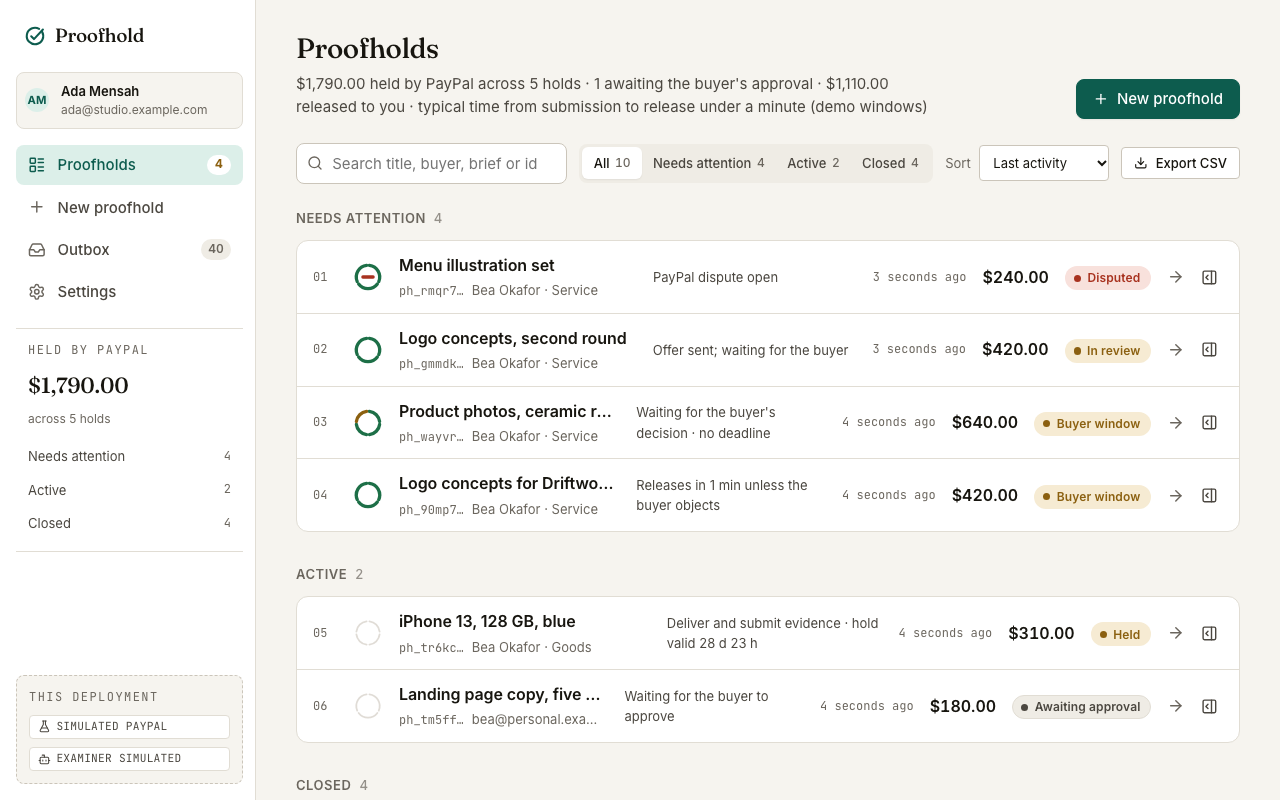
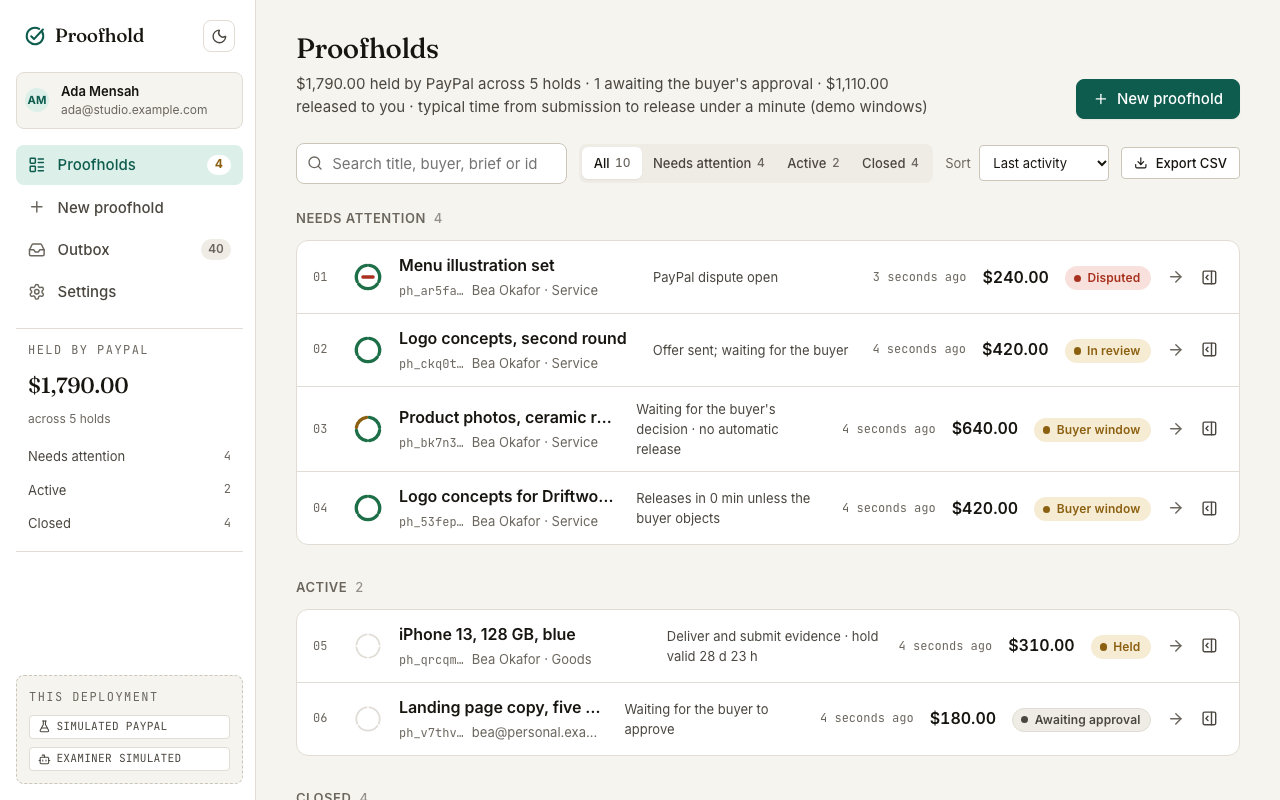
docs: the third design iteration, the fourth review pass, and a fresh gallery
The motion table gains the hero entrance, the story and the theme crossfade;
the brand doc explains the theme choice and the per-scheme brand-surface
tokens; the acceptance matrix lists what the outside review and the owner
raised, what was done, and what was left with the reason. Gallery
regenerated from a seeded workspace.

diff --git a/docs/acceptance-matrix.md b/docs/acceptance-matrix.md
@@ -156,6 +156,28 @@ An independent reviewer read the iteration-2 source and drove the served build a
 
 Also from the pass: the empty first header cell of the compare table has a visually hidden "Question". Verified as fine without change: every sampled colour pair, hit targets, reduced motion, dark mode, no horizontal overflow at any width.
 
+## Fourth pass (2026-11-12, an outside flow review and the owner's notes)
+
+An outside reviewer read the repository and the documented flow (not the running app) and the owner tried the app. What was raised, and what was done:
+
+| #   | Raised                                                                                    | Done                                                                                                                              |
+| --- | ----------------------------------------------------------------------------------------- | --------------------------------------------------------------------------------------------------------------------------------- |
+| 1   | No way to switch between light and dark                                                   | A theme button in every header, System / Light / Dark in Settings, remembered per browser, applied before first paint             |
+| 2   | Opening the app lands on workspace setup with no way back and no explanation              | "Name your workspace": Back to home, Cancel, what a workspace is, and the three things that happen next                           |
+| 3   | Changing the brief or deadline after compiling left the old test in place                 | Reproduced. The test is flagged as stale and cannot be saved or sent until the seller compiles again or keeps it on purpose       |
+| 4   | "No deadline" on a blocked release could be read as "the hold never expires"              | Now "nothing releases automatically", followed by the date the PayPal hold itself lapses, on both pages, the ledger and the email |
+| 5   | The buyer email hint said it only labels the proofhold, but notifications use it          | The hint states what happens in the mail mode in force                                                                            |
+| 6   | The buyer's decision panel came before the agreement and the evidence                     | The delivery and what each check found come first, with a link down to the decision                                               |
+| 7   | The demo was described as sandbox-capable but had only run simulated                      | Run against the PayPal sandbox on 2026-11-11 (row 17) and stated per call in the README                                           |
+| 8   | The landing could show one agreement moving through its states, with motion that explains | The scroll story: four moments beside a pinned card whose seal, rail and facts change                                             |
+| 9   | Dark-mode contrast on the landing's brand block (found by CI, hidden by the fade)         | Per-scheme tokens for text on brand surfaces; the scan runs with reduced motion so nothing is skipped                             |
+
+Raised and not changed, with the reason:
+
+- **Payouts go to the deployment's PayPal business account, not to each seller.** True of this build, and said on workspace setup and in Settings. Paying each seller needs PayPal's multiparty (partner) product, which needs partner approval; it is listed under "What's next".
+- **Call it an "agreement" rather than an "acceptance test" throughout.** A vocabulary change across the product, the recorded video and the docs the day before the deadline would leave them disagreeing. The buyer page already leads with "What you are agreeing to". Left as a decision for the owner.
+- **"Ask for changes" on the buyer page.** Not built. The buyer can decline to approve, and after delivery can object with a reason.
+
 ## Known gaps
 
 - The PayPal sandbox is verified for order, approval, authorization, full capture, partial capture and void (row 17). Reauthorization, refund, tracking and the dispute calls run against the simulator and have not been exercised in the sandbox. Row 19 still needs a public URL.

diff --git a/docs/design.md b/docs/design.md
@@ -41,10 +41,13 @@ Four durations and two curves, written down so every surface moves the same way:
 | `--t-base`      | 180 ms                         | hover nudges (an arrow moves 2–3 px, a card lifts 2 px), the stamp's settle            |
 | `--t-slow`      | 280 ms                         | position changes: the inspector sliding in, the index dash, ring arcs drawing in       |
 | reveal          | 400 ms                         | landing sections rising 12 px as they first enter view, staggered 60 ms across a triad |
+| hero entrance   | 560 ms, 70 ms apart            | the hero's five pieces and the product frame arriving in reading order, once           |
+| story           | 320 ms card, 360 ms facts      | the pinned agreement card changing as a moment crosses the middle of the viewport      |
+| theme           | 220 ms                         | a crossfade of the whole page when the visitor switches light and dark                 |
 | `--ease-out`    | cubic-bezier(0.2, 0.8, 0.2, 1) | every entrance and nudge                                                               |
 | `--ease-in-out` | cubic-bezier(0.65, 0, 0.35, 1) | anything that moves from one resting place to another                                  |
 
-Rules: nothing loops except the status dot while a check is genuinely running; motion explains a change of state and never decorates; anything the reader has already scrolled past is shown at once rather than waiting for a reveal. Under `prefers-reduced-motion`, every transition collapses to an instant change and nothing pulses. The second iteration, which took the frame-and-index landing, the sidebar shell and the ledger inspector from a study of Braintrust, is in [design-iteration-2.md](design-iteration-2.md).
+Rules: nothing loops except the status dot while a check is genuinely running; motion explains a change of state and never decorates; anything the reader has already scrolled past is shown at once rather than waiting for a reveal. Under `prefers-reduced-motion`, every transition collapses to an instant change and nothing pulses. The third iteration (2026-11-12) added the scroll story, the hero entrance, the rotating audience line and the theme switch after a study of the Bakeoff board's landing: its pinned panel that changes per step, its staggered rows and its light, dark or system choice were taken as ideas and rebuilt in CSS and a small observer, with no animation library. The story's card is hidden from assistive tech because the list beside it says the same thing; on narrow screens each moment carries its own card, and with reduced motion or no JavaScript every card is simply shown. The second iteration, which took the frame-and-index landing, the sidebar shell and the ledger inspector from a study of Braintrust, is in [design-iteration-2.md](design-iteration-2.md).
 
 ### Voice
 

diff --git a/docs/brand.md b/docs/brand.md
@@ -37,6 +37,8 @@ Paper and ink carry the interface. Teal is the brand and the colour of money mov
 | `--wax`     | = brand   | = brand   | Stamp ink                         |
 | `--rule`    | `#cbc5ba` | `#403c36` | Ledger rules and the sheet margin |
 
+Theme: the page follows the system until the visitor picks. One button in every header flips light and dark, Settings has System, Light and Dark, the choice is kept in the browser under `proofhold:theme`, and an inline script applies it before first paint. Dark tokens are written twice in `globals.css` (system dark unless light was picked, and an explicit dark) and must stay identical. Text on brand surfaces uses `--brand-ink`, `--brand-ink-muted` and `--brand-plate-ink`, which are set per scheme.
+
 Contrast: every text colour meets 4.5:1 on the surfaces it is used on, in both schemes (checked by `tests/browser/a11y.spec.ts` with axe, and by the pair table in the build log). Verdict colours are always paired with an icon or a word, never alone.
 
 ## Type
@@ -59,7 +61,7 @@ Lucide, 1.5 px stroke at 16 px, 1 px at 20 px and above. Icons never carry meani
 
 ## Motion
 
-Durations 120 / 180 / 280 ms, one ease-out curve. Stamps land (scale 1.25 → 1 with a settle). Ring arcs draw in when a verdict arrives. Dots pulse only while something is actually running. Under `prefers-reduced-motion: reduce` every animation collapses to an instant change.
+Durations 120 / 180 / 280 ms, one ease-out curve. Stamps land (scale 1.25 → 1 with a settle). Ring arcs draw in when a verdict arrives. Dots pulse only while something is actually running. The landing's hero arrives in order once, and its story card changes only when the reader scrolls to the next moment. Under `prefers-reduced-motion: reduce` every animation collapses to an instant change.
 
 ## Voice
 

diff --git a/README.md b/README.md
@@ -94,7 +94,7 @@ The interface is built on one idea: the acceptance test is a document and the Pa
 - **The Sheet** (`src/components/proofhold/test-view.tsx`): the test as a ruled page with a numbered margin, who agreed and when, and the hash that was written into the PayPal order.
 - **The Rail** (`src/components/proofhold/rail.tsx`): Proposed, Held, Checking, Buyer window, Released or Returned, on every page and on the landing.
 
-Around those three pieces: a landing page that shows the product itself under a teal band, with a sticky section index and one real UI plate per section; a seller shell with a sidebar on desktop (counts for what needs attention and what is in the outbox, the modes in force) and a bottom bar on phones; and a ledger with numbered rows, mono ids, relative times and an inspector panel (`/app?peek=<id>`) that opens beside the list.
+Around those three pieces: a landing page that shows the product itself under a teal band, then tells one job as a scroll story in four moments beside a pinned agreement card, with a sticky section index and one real UI plate per section; a light and dark theme switch in every header; a seller shell with a sidebar on desktop (counts for what needs attention and what is in the outbox, the modes in force) and a bottom bar on phones; and a ledger with numbered rows, mono ids, relative times and an inspector panel (`/app?peek=<id>`) that opens beside the list.
 
 Tokens live in `src/app/globals.css`; the rules, colour contrast table and asset licences are in [docs/brand.md](docs/brand.md); the research, the three directions considered and the motion system are in [docs/design.md](docs/design.md); the second iteration's study of Braintrust and what was taken from it is in [docs/design-iteration-2.md](docs/design-iteration-2.md).
 

diff --git a/docs/submission.md b/docs/submission.md
@@ -69,7 +69,7 @@ Next.js, React, TypeScript, Node.js, SQLite, PostgreSQL, PayPal REST APIs (Order
    2b. `ledger-inspector-1440.png` — the inspector open beside the list: seal, status, next step and the PayPal ids without leaving the page.
 3. `buyer-approve.png` — what the buyer agrees to: the sheet, both signatures, the hash, and the questions.
 4. `seller-window-open.png` — checks passed, the buyer window open, the seal half-lit.
-5. `buyer-decide.png` — a blocked line routed to the buyer: no deadline, confirm or object.
+5. `buyer-decide.png` — a blocked line routed to the buyer: the delivery and the checks first, then confirm or object; nothing releases automatically, and the page says when the PayPal hold itself lapses.
 6. `seller-released.png` — the seal stamped CAPTURED beside the PayPal capture id.
 7. `buyer-receipt.png` — the printable record and receipt.
 8. `seller-in-review.png`, `seller-disputed.png` — the failure paths: an objection with an offer, and a PayPal dispute with the evidence bundle filed.
